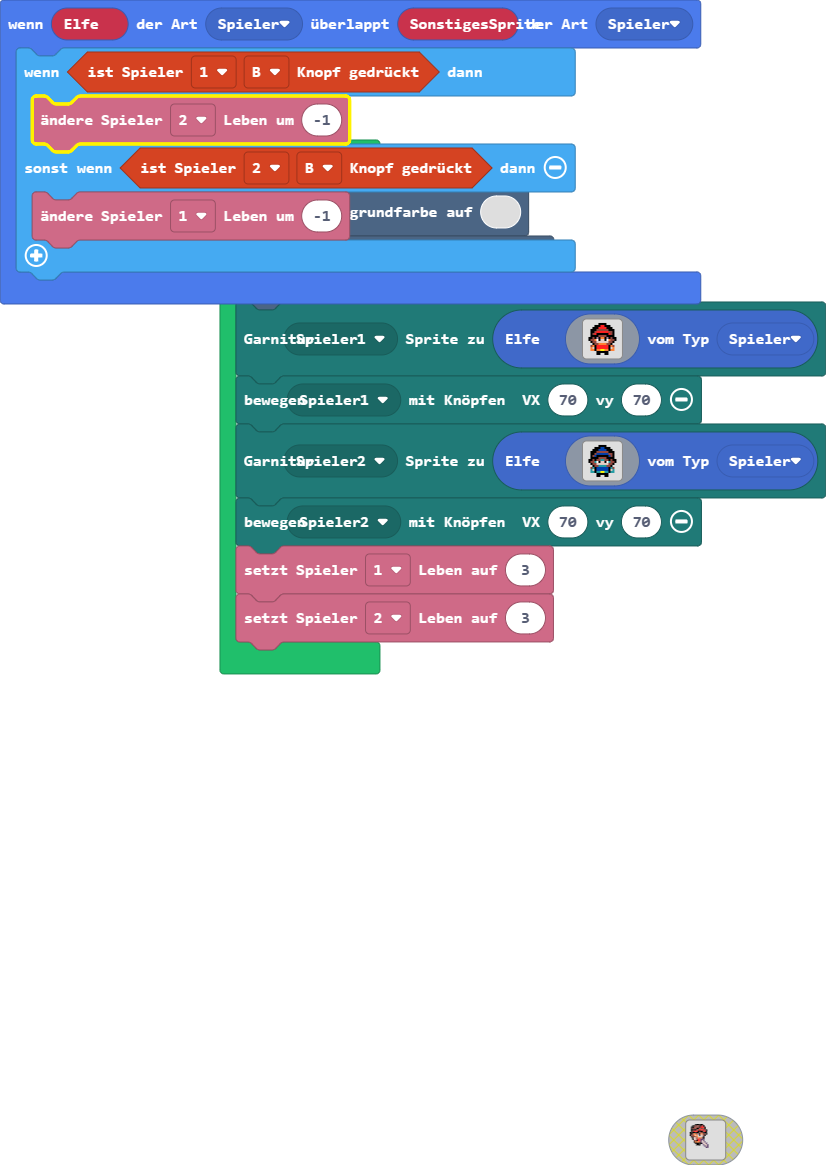
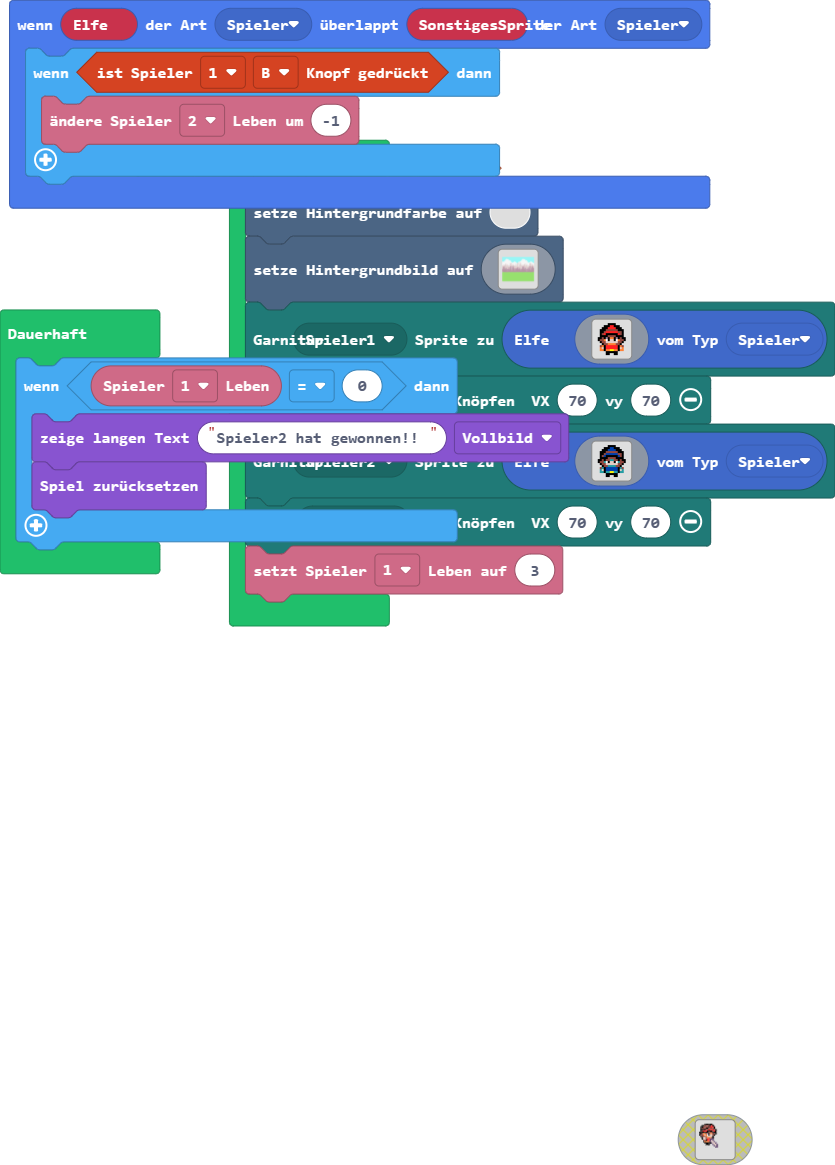
Aktualisiere pxt.json, main.blocks, main.ts

diff --git a/main.ts b/main.ts
@@ -1,8 +1,6 @@
 sprites.onOverlap(SpriteKind.Player, SpriteKind.Player, function (sprite, otherSprite) {
     if (controller.player1.isPressed(ControllerButton.B)) {
         info.player2.changeLifeBy(-1)
-    } else if (controller.player2.isPressed(ControllerButton.B)) {
-        info.player1.changeLifeBy(-1)
     }
 })
 scene.setBackgroundColor(0)
@@ -167,4 +165,9 @@ mp.setPlayerSprite(mp.playerSelector(mp.PlayerNumber.Two), sprites.create(img`
     `, SpriteKind.Player))
 mp.moveWithButtons(mp.playerSelector(mp.PlayerNumber.Two), 70, 70)
 info.player1.setLife(3)
-info.player2.setLife(3)
+forever(function () {
+    if (info.player1.life() == 0) {
+        game.showLongText("Spieler2 hat gewonnen!!!", DialogLayout.Full)
+        game.reset()
+    }
+})
